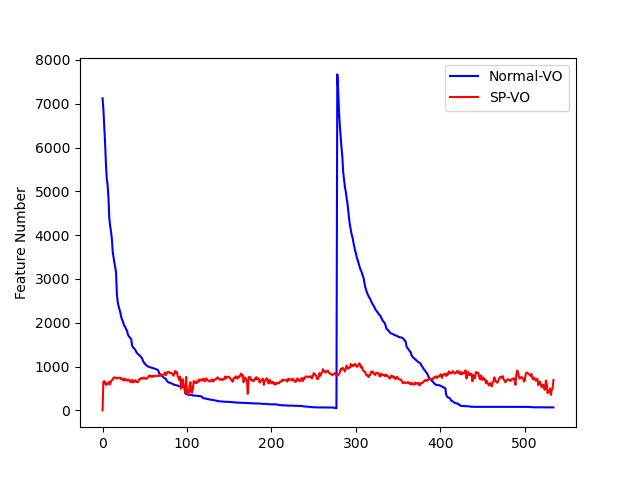
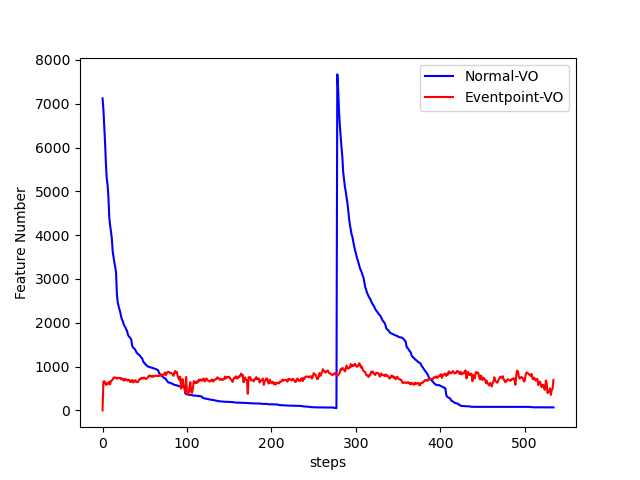
修改作图效果

Changed region(s): [[0.6562, 0.125, 0.875, 0.2188], [0.4688, 0.9375, 0.5312, 1.0]]

diff --git a/result_visualizer.py b/result_visualizer.py
@@ -61,9 +61,10 @@ def main():
     if True:
         # plt.subplot(2, 1, 1)
         plt.plot(img_ids, norm_features, color="blue", label="Normal-VO")
-        plt.plot(img_ids, sp_features, color="red", label="SP-VO")
+        plt.plot(img_ids, sp_features, color="red", label="Eventpoint-VO")
         plt.ylabel("Feature Number")
-        plt.legend(["Normal-VO","SP-VO"])
+        plt.xlabel("steps")
+        plt.legend(["Normal-VO","Eventpoint-VO"])
         plt.savefig("feature_num.png")
         
         # plt.subplot(2, 1, 2)
@@ -74,23 +75,26 @@ def main():
         # plt.legend()
 
         plt.subplot(3,1,1)
-        plt.plot(img_ids,euler_rpy[:,0],color="blue", label="VO")
-        plt.plot(img_ids,euler_rpy_norm[:,0],color="green", label="VO_norm")
-        plt.plot(img_ids,euler_rpy_gt[:,0],color="red", label="gt")
+        plt.plot(img_ids,euler_rpy_norm[:,0],color="blue", label="Normal-VO")
+        plt.plot(img_ids,euler_rpy[:,0],color="red", label="Eventpoint-VO")
+        plt.plot(img_ids,euler_rpy_gt[:,0],color="green", label="gt")
         plt.legend()
-        plt.ylabel("roll")
+        plt.ylabel("theta_x")
+        plt.xlabel("steps")
 
         plt.subplot(3,1,2)
-        plt.plot(img_ids,euler_rpy[:,1],color="blue", label="VO")
-        plt.plot(img_ids,euler_rpy_norm[:,1],color="green", label="VO_norm")
-        plt.plot(img_ids,euler_rpy_gt[:,1],color="red", label="gt")
-        plt.ylabel("pitch")
+        plt.plot(img_ids,euler_rpy_norm[:,1],color="blue", label="Normal-VO")
+        plt.plot(img_ids,euler_rpy[:,1],color="red", label="Eventpoint-VO")
+        plt.plot(img_ids,euler_rpy_gt[:,1],color="green", label="gt")
+        plt.ylabel("theta_y")
+        plt.xlabel("steps")
 
         plt.subplot(3,1,3)
-        plt.plot(img_ids,euler_rpy[:,2],color="blue", label="VO")
-        plt.plot(img_ids,euler_rpy_norm[:,2],color="green", label="VO_norm")
-        plt.plot(img_ids,euler_rpy_gt[:,2],color="red", label="gt")
-        plt.ylabel("yaw")
+        plt.plot(img_ids,euler_rpy_norm[:,2],color="blue", label="Normal-VO")
+        plt.plot(img_ids,euler_rpy[:,2],color="red", label="Eventpoint-VO")
+        plt.plot(img_ids,euler_rpy_gt[:,2],color="green", label="gt")
+        plt.ylabel("theta_z")
+        plt.xlabel("steps")
         plt.savefig("rotation_euler.png")
 
 
